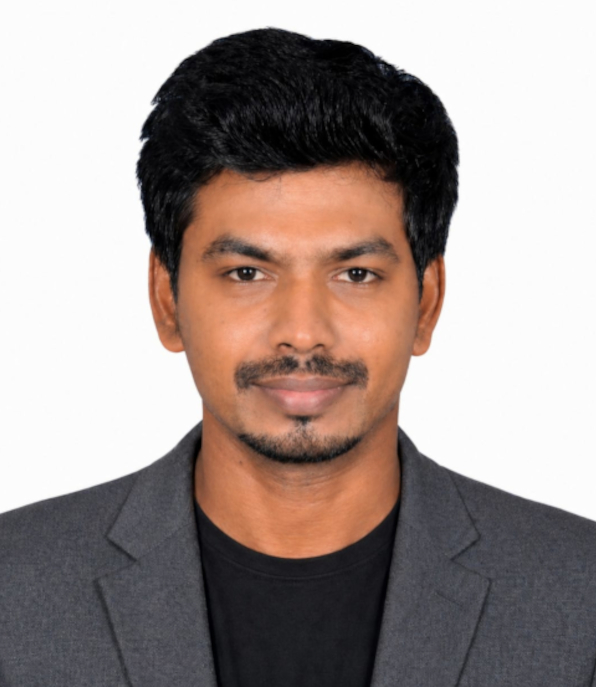
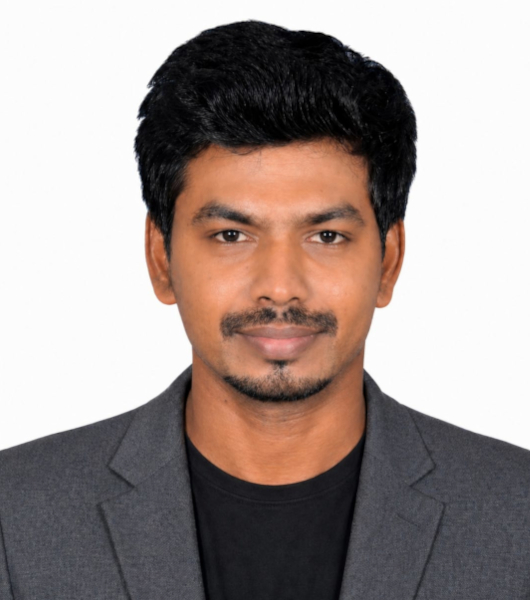
Added indian div

diff --git a/src/app/(marketing)/why-choose-us/why-choose-us.module.css b/src/app/(marketing)/why-choose-us/why-choose-us.module.css
@@ -6,7 +6,13 @@
   align-items: center;
   overflow: hidden;
   background: #0e1010;
-  padding: 120px 0;
+  padding: 80px 0;
+}
+
+@media (min-width: 1024px) {
+  .heroSection {
+    padding: 120px 0;
+  }
 }
 
 .heroBg {
@@ -1028,7 +1034,13 @@
 /* ─── Office Bearers Section ─── */
 .officeBearersSection {
   background-color: var(--_color---soft-gray);
-  padding: 120px 0;
+  padding: 60px 0;
+}
+
+@media (min-width: 1024px) {
+  .officeBearersSection {
+    padding: 120px 0;
+  }
 }
 
 .teamGrid {
@@ -1036,8 +1048,28 @@
   flex-wrap: wrap;
   justify-content: center;
   align-items: stretch;
-  gap: 32px;
-  margin-top: 60px;
+  gap: 20px;
+  margin-top: 40px;
+}
+
+@media (min-width: 768px) {
+  .teamGrid {
+    gap: 32px;
+    margin-top: 60px;
+  }
+}
+
+.teamCard {
+  flex: 0 0 100%;
+  max-width: 400px;
+  background-color: #fff;
+  border-radius: 12px;
+  overflow: hidden;
+  box-shadow: 0 10px 30px rgba(0,0,0,0.03);
+  transition: all 0.4s cubic-bezier(0.165, 0.84, 0.44, 1);
+  display: flex;
+  flex-direction: column;
+  height: 100%;
 }
 
 @media (min-width: 768px) {
@@ -1057,17 +1089,6 @@
     flex: 0 0 calc(25% - 24px);
     max-width: none;
   }
-}
-
-.teamCard {
-  background-color: #fff;
-  border-radius: 12px;
-  overflow: hidden;
-  box-shadow: 0 10px 30px rgba(0,0,0,0.03);
-  transition: all 0.4s cubic-bezier(0.165, 0.84, 0.44, 1);
-  display: flex;
-  flex-direction: column;
-  height: 100%;
 }
 
 .teamCard:hover {
@@ -1151,15 +1172,22 @@
 .divisionTitle {
   display: inline-block;
   background-color: var(--_color---soft-gray);
-  padding: 0 32px;
+  padding: 0 16px;
   position: relative;
   z-index: 2;
   font-family: var(--_font-family---lexend);
-  font-size: 24px;
+  font-size: 18px;
   font-weight: 700;
   color: var(--_color---charcoal-black);
   text-transform: uppercase;
   letter-spacing: 0.05em;
+}
+
+@media (min-width: 768px) {
+  .divisionTitle {
+    padding: 0 32px;
+    font-size: 24px;
+  }
 }
 
 .divisionTitle em {

diff --git a/src/components/layout/Navbar.module.css b/src/components/layout/Navbar.module.css
@@ -46,8 +46,36 @@
   z-index: 1001; /* Above mobile menu */
 }
 
+.logoLinkWrapper {
+  display: flex;
+  align-items: center;
+  text-decoration: none !important;
+  gap: 8px;
+}
+
+.logoText {
+  font-size: 16px;
+  font-weight: 700;
+  color: var(--_color---crimson-red);
+  letter-spacing: 0.05em;
+  font-family: var(--font-lexend, sans-serif);
+  text-transform: uppercase;
+}
+
+@media (min-width: 768px) {
+  .logoText {
+    font-size: 24px;
+  }
+}
+
+@media (min-width: 1024px) {
+  .logoText {
+    font-size: 28px;
+  }
+}
+
 .logoImg {
-  height: 42px;
+  height: 32px;
   width: auto;
   object-fit: contain;
   display: block;
@@ -108,6 +136,7 @@
 .signUpLink,
 .dashboardLink,
 .logoutLink {
+  display: none;
   font-size: 14px;
   font-weight: 600;
   text-decoration: none;
@@ -115,6 +144,15 @@
   border-radius: var(--radius-sm);
   transition: all 0.2s ease;
   white-space: nowrap;
+}
+
+@media (min-width: 1024px) {
+  .loginLink,
+  .signUpLink,
+  .dashboardLink,
+  .logoutLink {
+    display: inline-flex;
+  }
 }
 
 .loginLink {
@@ -307,6 +345,19 @@
   .nav.mobileOpen .dropdownLink:hover {
     padding-left: 0;
     color: var(--_color---crimson-red);
+  }
+
+  .mobileOnlyAuth {
+    display: block;
+    margin-top: 20px;
+    padding-top: 20px;
+    border-top: 1px solid rgba(0,0,0,0.1);
+  }
+}
+
+@media (min-width: 1024px) {
+  .mobileOnlyAuth {
+    display: none;
   }
 }
 

diff --git a/src/components/layout/Navbar.tsx b/src/components/layout/Navbar.tsx
@@ -94,15 +94,16 @@ export const Navbar: React.FC = () => {
     <header className={`${styles.header} ${isScrolled ? styles.scrolled : ''}`}>
       <div className={`container ${styles.container}`}>
         <div className={styles.logoContainer}>
-          <Link href="/home">
+          <Link href="/home" className={styles.logoLinkWrapper}>
             <Image
               src="/images/znaine-logo.png"
-              alt="Znaine Logo"
+              alt="Znanie Logo"
               width={320}
               height={100}
               className={styles.logoImg}
               priority
             />
+            <span className={styles.logoText}>Znanie</span>
           </Link>
         </div>
 
@@ -140,6 +141,27 @@ export const Navbar: React.FC = () => {
                 )}
               </li>
             ))}
+            {!loading && (
+              <li className={styles.mobileOnlyAuth}>
+                {user ? (
+                  <Link 
+                    href={['TEACHER', 'COUNSELOR', 'MENTOR'].includes(user.role) ? '/teacher' : user.role === 'ADMIN' ? '/admin' : '/student'}
+                    className={styles.navLink}
+                    onClick={() => setIsMobileMenuOpen(false)}
+                  >
+                    Dashboard
+                  </Link>
+                ) : (
+                  <Link 
+                    href="/login" 
+                    className={styles.navLink}
+                    onClick={() => setIsMobileMenuOpen(false)}
+                  >
+                    Sign In
+                  </Link>
+                )}
+              </li>
+            )}
           </ul>
         </nav>
 

diff --git a/src/app/(marketing)/why-choose-us/WhyChooseUsContent.tsx b/src/app/(marketing)/why-choose-us/WhyChooseUsContent.tsx
@@ -702,6 +702,11 @@ export default function WhyChooseUsContent() {
                 name: "DR. M. SANTHALAKSHMI",
                 title: "All India People & Culture Director",
                 image: "/images/team/Santhalakshmi.jpg"
+              },
+              {
+                name: "MR. ARUN HENDRIX",
+                title: "KERALA STATE REPRESENTATIVE",
+                image: "/images/team/arun.jpg"
               }
             ].map((member, i) => (
               <motion.div